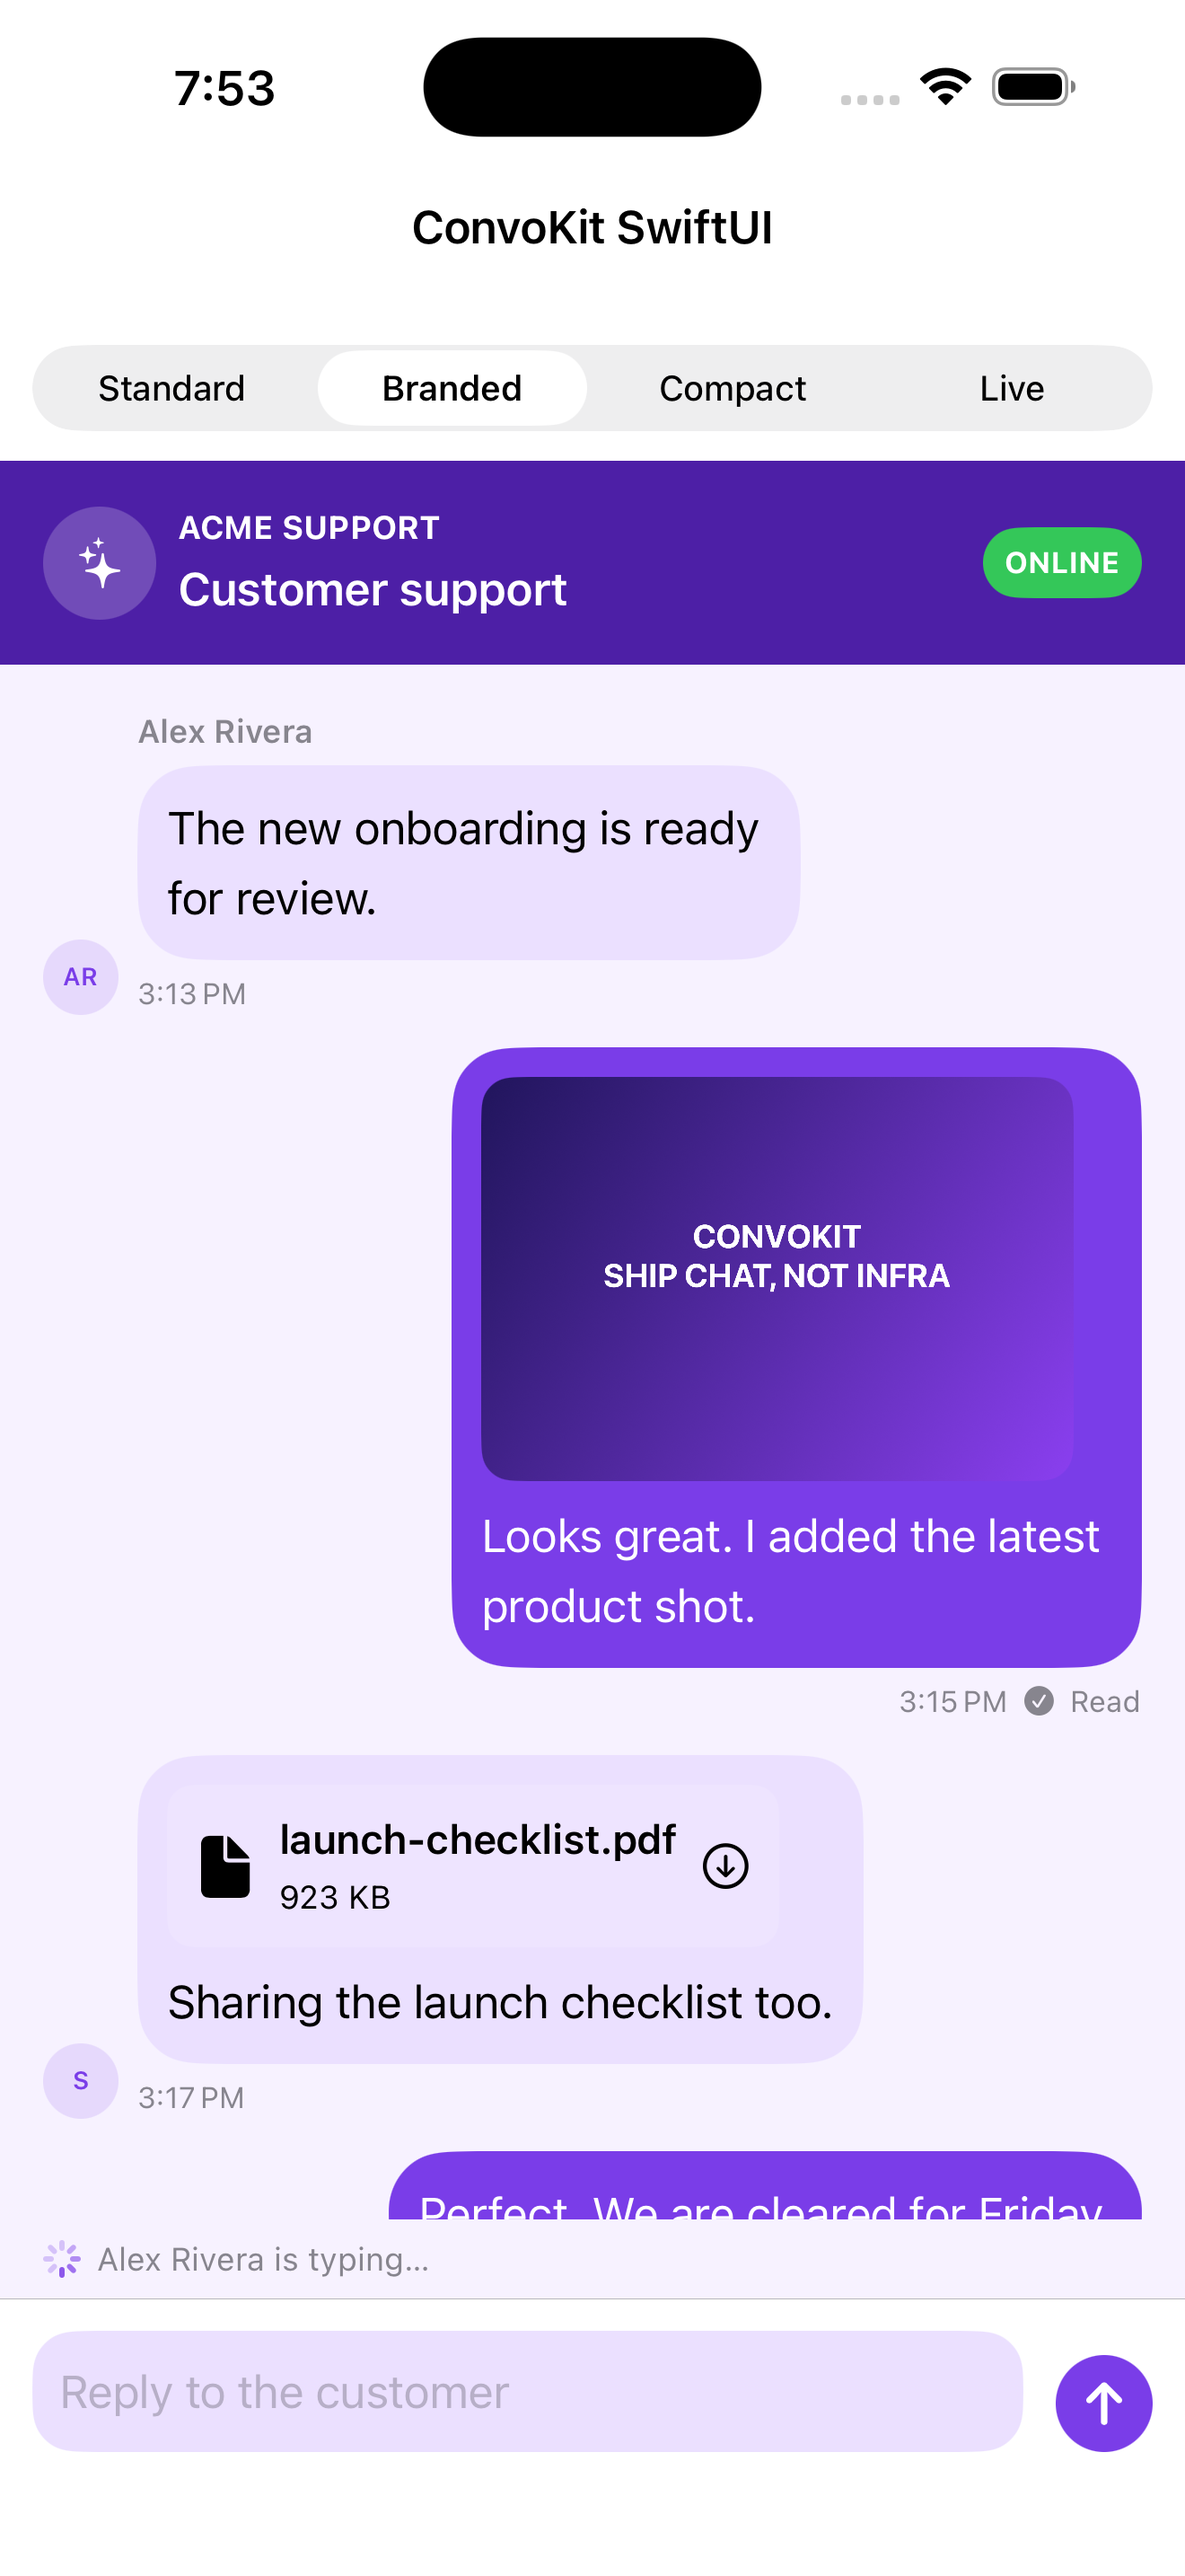
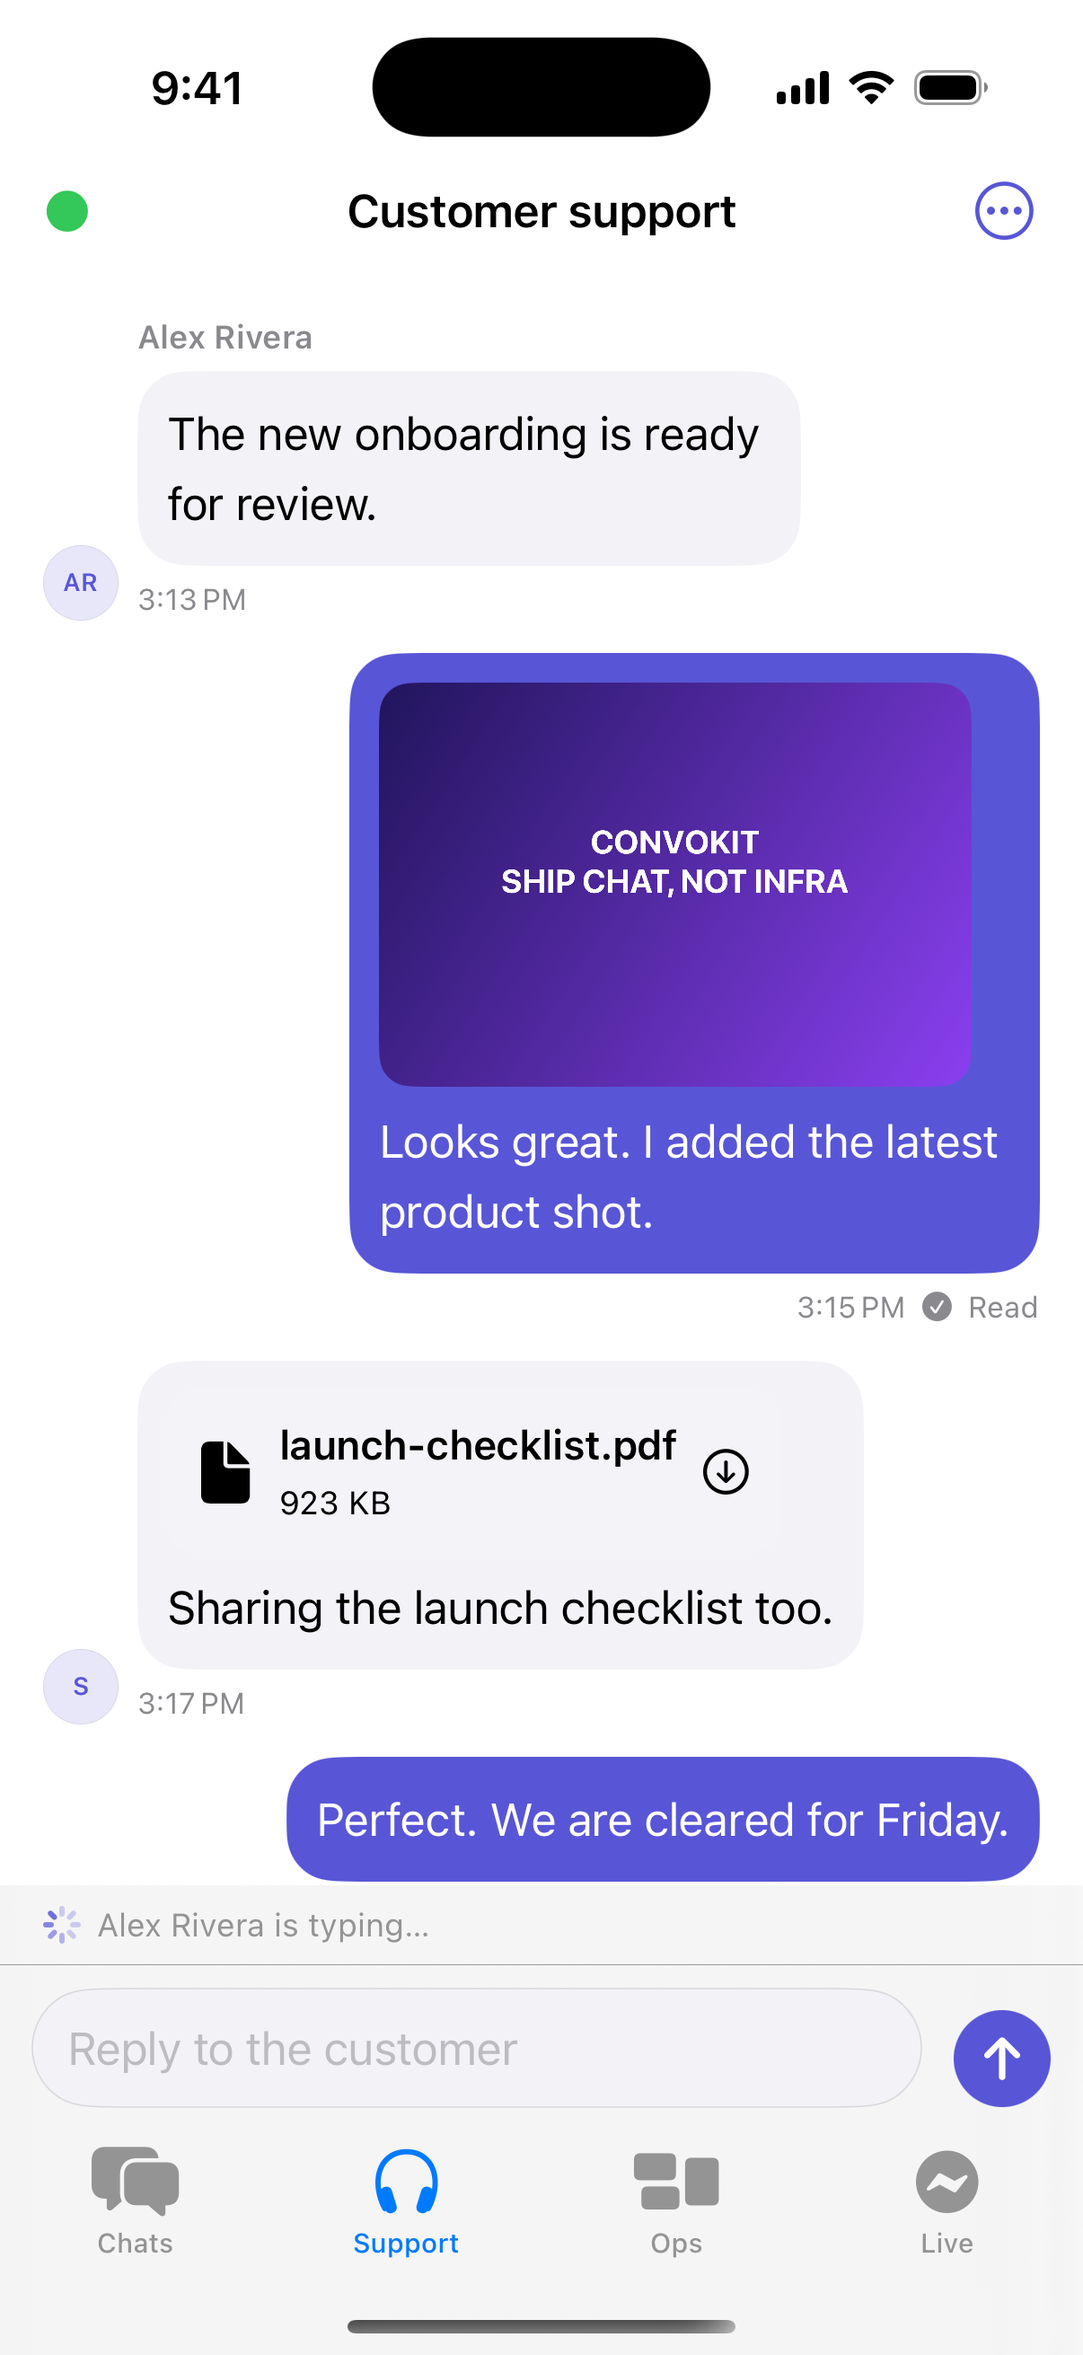
feat: showcase native SwiftUI components

diff --git a/ConvoKitExample/Sources/DemoRootView.swift b/ConvoKitExample/Sources/DemoRootView.swift
@@ -1,6 +1,7 @@
 import ConvoKit
 import ConvoKitUI
 import SwiftUI
+import UIKit
 
 struct DemoRootView: View {
     @State private var mode: DemoMode
@@ -12,103 +13,230 @@ struct DemoRootView: View {
     }
 
     var body: some View {
-        NavigationView {
-            VStack(spacing: 0) {
-                Picker("Example", selection: $mode) {
-                    ForEach(DemoMode.allCases) { Text($0.title).tag($0) }
-                }
-                .pickerStyle(.segmented).padding(12).background(.white)
-                Group {
-                    switch mode {
-                    case .standard: StandardComponentsView()
-                    case .branded: BrandedConversationView()
-                    case .compact: CompactConversationView()
-                    case .live: LiveChatView()
-                    }
-                }
+        TabView(selection: $mode) {
+            StandardComponentsView()
+                .tabItem { Label(DemoMode.standard.title, systemImage: DemoMode.standard.icon) }
+                .tag(DemoMode.standard)
+
+            BrandedConversationView()
+                .tabItem { Label(DemoMode.branded.title, systemImage: DemoMode.branded.icon) }
+                .tag(DemoMode.branded)
+
+            CompactConversationView()
+                .tabItem { Label(DemoMode.compact.title, systemImage: DemoMode.compact.icon) }
+                .tag(DemoMode.compact)
+
+            NavigationView {
+                LiveChatView()
+                    .navigationTitle("Join a room")
             }
-            .navigationTitle("ConvoKit SwiftUI")
-            .navigationBarTitleDisplayMode(.inline)
+            .navigationViewStyle(.stack)
+            .tabItem { Label(DemoMode.live.title, systemImage: DemoMode.live.icon) }
+            .tag(DemoMode.live)
         }
-        .navigationViewStyle(.stack)
+        .tint(.blue)
     }
 }
 
 enum DemoMode: String, CaseIterable, Identifiable {
     case standard, branded, compact, live
+
     var id: String { rawValue }
-    var title: String { rawValue.capitalized }
+    var title: String {
+        switch self {
+        case .standard: "Chats"
+        case .branded: "Support"
+        case .compact: "Ops"
+        case .live: "Live"
+        }
+    }
+    var icon: String {
+        switch self {
+        case .standard: "bubble.left.and.bubble.right"
+        case .branded: "headphones"
+        case .compact: "rectangle.3.group"
+        case .live: "bolt.horizontal.circle"
+        }
+    }
 }
 
 struct StandardComponentsView: View {
+    @State private var selectedConversation: Conversation?
+
     var body: some View {
-        VStack(spacing: 12) {
-            VStack(alignment: .leading, spacing: 6) {
-                Label("ConversationListView", systemImage: "list.bullet.rectangle").font(.caption.weight(.semibold)).foregroundStyle(.secondary)
-                ConversationListView(conversations: SampleData.conversations, selectedConversationId: SampleData.launch.id, onSelect: { _ in })
-                    .frame(height: 178).clipShape(RoundedRectangle(cornerRadius: 18)).overlay(RoundedRectangle(cornerRadius: 18).stroke(.black.opacity(0.07)))
+        NavigationView {
+            ConversationListView(
+                conversations: SampleData.conversations,
+                selectedConversationId: selectedConversation?.id,
+                onSelect: { selectedConversation = $0 }
+            )
+            .navigationTitle("Messages")
+            .toolbar {
+                ToolbarItem(placement: .navigationBarTrailing) {
+                    Button(action: {}) {
+                        Image(systemName: "square.and.pencil")
+                    }
+                    .accessibilityLabel("New conversation")
+                }
             }
-            VStack(alignment: .leading, spacing: 6) {
-                Label("ConversationView", systemImage: "bubble.left.and.bubble.right").font(.caption.weight(.semibold)).foregroundStyle(.secondary)
-                ConversationView(
-                    conversation: SampleData.launch, messages: SampleData.messages, currentUserId: "maya",
-                    readAtByUserId: ["alex": SampleData.now],
-                    configuration: .init(showsHeader: true, showsAvatars: true, showsTimestamps: true, showsReadReceipts: true, messageMaxWidth: 250),
-                    onSendMessage: { _ in true }, mediaDataProvider: { _ in SampleData.imageData() }
-                )
-                .clipShape(RoundedRectangle(cornerRadius: 18)).overlay(RoundedRectangle(cornerRadius: 18).stroke(.black.opacity(0.07)))
+            .background(navigationLink)
+        }
+        .navigationViewStyle(.stack)
+    }
+
+    private var navigationLink: some View {
+        NavigationLink(
+            isActive: Binding(
+                get: {
+                    if case .some = selectedConversation { return true }
+                    return false
+                },
+                set: { if !$0 { selectedConversation = nil } }
+            )
+        ) {
+            Group {
+                if let selectedConversation {
+                    NativeConversationScreen(conversation: selectedConversation)
+                }
             }
-        }.padding(12).background(Color(red: 0.95, green: 0.97, blue: 0.97))
+        } label: {
+            EmptyView()
+        }
+        .hidden()
+    }
+}
+
+private struct NativeConversationScreen: View {
+    let conversation: Conversation
+
+    var body: some View {
+        ConversationView(
+            conversation: conversation,
+            messages: SampleData.messages,
+            currentUserId: "maya",
+            readAtByUserId: ["alex": SampleData.now],
+            configuration: .init(showsHeader: false),
+            onSendMessage: { _ in true },
+            mediaDataProvider: { _ in SampleData.imageData() }
+        )
+        .navigationTitle(conversation.displayTitle)
+        .navigationBarTitleDisplayMode(.inline)
+        .toolbar {
+            ToolbarItem(placement: .navigationBarTrailing) {
+                Button(action: {}) {
+                    Image(systemName: "person.2")
+                }
+                .accessibilityLabel("Conversation details")
+            }
+        }
     }
 }
 
 struct BrandedConversationView: View {
     private let theme = ConvoKitTheme(
-        accent: Color(red: 0.48, green: 0.24, blue: 0.91),
-        background: Color(red: 0.97, green: 0.95, blue: 1),
-        surface: .white,
-        incomingBubble: Color(red: 0.92, green: 0.88, blue: 1),
-        outgoingBubble: Color(red: 0.48, green: 0.24, blue: 0.91),
-        cornerRadius: 22
+        accent: .indigo,
+        incomingBubble: Color(uiColor: .secondarySystemBackground),
+        outgoingBubble: .indigo,
+        cornerRadius: 18
     )
 
     var body: some View {
-        ConversationView(
-            conversation: SampleData.support,
-            messages: SampleData.messages,
-            currentUserId: "maya",
-            typingUserIds: ["alex"],
-            readAtByUserId: ["alex": SampleData.now],
-            configuration: .init(composerPlaceholder: "Reply to the customer"),
-            onSendMessage: { _ in true },
-            mediaDataProvider: { _ in SampleData.imageData() },
-            header: { room in AnyView(
-                HStack {
-                    ZStack { Circle().fill(.white.opacity(0.2)); Image(systemName: "sparkles").foregroundStyle(.white) }.frame(width: 42, height: 42)
-                    VStack(alignment: .leading) { Text("ACME SUPPORT").font(.caption.weight(.bold)); Text(room.displayTitle).font(.headline) }
-                    Spacer(); Text("ONLINE").font(.caption2.weight(.bold)).padding(.horizontal, 8).padding(.vertical, 5).background(.green).clipShape(Capsule())
-                }.foregroundStyle(.white).padding().background(Color(red: 0.30, green: 0.12, blue: 0.65))
-            ) }
-        ).convoKitTheme(theme)
+        NavigationView {
+            ConversationView(
+                conversation: SampleData.support,
+                messages: SampleData.messages,
+                currentUserId: "maya",
+                typingUserIds: ["alex"],
+                readAtByUserId: ["alex": SampleData.now],
+                configuration: .init(showsHeader: false, composerPlaceholder: "Reply to the customer"),
+                onSendMessage: { _ in true },
+                mediaDataProvider: { _ in SampleData.imageData() }
+            )
+            .convoKitTheme(theme)
+            .navigationTitle("Customer support")
+            .navigationBarTitleDisplayMode(.inline)
+            .toolbar {
+                ToolbarItem(placement: .navigationBarLeading) {
+                    Label("Online", systemImage: "circle.fill")
+                        .font(.caption)
+                        .foregroundStyle(.green)
+                }
+                ToolbarItem(placement: .navigationBarTrailing) {
+                    Menu {
+                        Button("View customer", systemImage: "person") {}
+                        Button("Conversation details", systemImage: "info.circle") {}
+                    } label: {
+                        Image(systemName: "ellipsis.circle")
+                    }
+                }
+            }
+        }
+        .navigationViewStyle(.stack)
+        .tint(.indigo)
     }
 }
 
 struct CompactConversationView: View {
     var body: some View {
-        ConversationView(
-            conversation: SampleData.launch, messages: SampleData.messages, currentUserId: "maya",
-            readAtByUserId: ["alex": SampleData.now],
-            configuration: .init(showsHeader: true, showsAvatars: false, showsTimestamps: false, showsReadReceipts: true, messageMaxWidth: 290, composerPlaceholder: "Message ops"),
-            onSendMessage: { _ in true }, mediaDataProvider: { _ in SampleData.imageData() },
-            messageView: { context in AnyView(
-                HStack(spacing: 8) {
-                    Text(context.sender?.name.components(separatedBy: " ").first ?? context.message.senderId).font(.caption.weight(.bold)).frame(width: 42, alignment: .leading)
-                    Text(context.message.text ?? context.message.media.first?.name ?? "Attachment").font(.subheadline).lineLimit(2)
-                    Spacer(); if !context.readerIds.isEmpty { Image(systemName: "checkmark.done").font(.caption).foregroundStyle(.green) }
-                }.padding(10).background(context.isCurrentUser ? Color.green.opacity(0.12) : Color.white).clipShape(RoundedRectangle(cornerRadius: 9))
-            ) }
-        )
-        .convoKitDensity(.compact)
-        .convoKitTheme(ConvoKitTheme(accent: .green, background: Color(red: 0.94, green: 0.96, blue: 0.94), outgoingBubble: .green, cornerRadius: 10))
+        NavigationView {
+            ConversationView(
+                conversation: SampleData.launch,
+                messages: SampleData.messages,
+                currentUserId: "maya",
+                readAtByUserId: ["alex": SampleData.now],
+                configuration: .init(
+                    showsHeader: false,
+                    showsAvatars: false,
+                    showsTimestamps: false,
+                    showsReadReceipts: true,
+                    messageMaxWidth: 320,
+                    composerPlaceholder: "Message operations"
+                ),
+                onSendMessage: { _ in true },
+                mediaDataProvider: { _ in SampleData.imageData() },
+                messageView: { context in AnyView(OperationsMessageRow(context: context)) }
+            )
+            .convoKitDensity(.compact)
+            .navigationTitle("Launch operations")
+            .navigationBarTitleDisplayMode(.inline)
+            .toolbar {
+                ToolbarItem(placement: .navigationBarTrailing) {
+                    Button(action: {}) {
+                        Label("Details", systemImage: "info.circle")
+                    }
+                    .accessibilityLabel("Room details")
+                }
+            }
+        }
+        .navigationViewStyle(.stack)
+    }
+}
+
+private struct OperationsMessageRow: View {
+    let context: MessageContext
+
+    var body: some View {
+        HStack(alignment: .firstTextBaseline, spacing: 10) {
+            Text(context.isCurrentUser ? "You" : firstName)
+                .font(.caption.weight(.semibold))
+                .foregroundStyle(.secondary)
+                .frame(width: 44, alignment: .leading)
+            Text(context.message.text ?? context.message.media.first?.name ?? "Attachment")
+                .font(.subheadline)
+                .frame(maxWidth: .infinity, alignment: .leading)
+            if !context.readerIds.isEmpty {
+                Image(systemName: "checkmark.circle.fill")
+                    .font(.caption)
+                    .foregroundStyle(.secondary)
+                    .accessibilityLabel("Read")
+            }
+        }
+        .padding(.horizontal, 12)
+        .padding(.vertical, 9)
+        .background(.thinMaterial, in: RoundedRectangle(cornerRadius: 10, style: .continuous))
+    }
+
+    private var firstName: String {
+        context.sender?.name.components(separatedBy: " ").first ?? context.message.senderId
     }
 }

diff --git a/ConvoKitExample/Sources/SampleData.swift b/ConvoKitExample/Sources/SampleData.swift
@@ -17,8 +17,23 @@ enum SampleData {
         description: "Priority inbox", participants: [maya, alex],
         createdAt: now.addingTimeInterval(-172_800), updatedAt: now.addingTimeInterval(-120)
     )
+    static let design = Conversation(
+        id: "design-room", title: "Design review", appId: "demo", displayTitle: "Design review",
+        description: "New onboarding flow", participants: [maya, sam],
+        createdAt: now.addingTimeInterval(-259_200), updatedAt: now.addingTimeInterval(-1_800)
+    )
+    static let incident = Conversation(
+        id: "incident-room", title: "Incident response", appId: "demo", displayTitle: "Incident response",
+        description: "API status and customer updates", participants: [maya, alex, sam],
+        createdAt: now.addingTimeInterval(-345_600), updatedAt: now.addingTimeInterval(-7_200)
+    )
+    static let research = Conversation(
+        id: "research-room", title: "User research", appId: "demo", displayTitle: "User research",
+        description: "September interview notes", participants: [maya, alex],
+        createdAt: now.addingTimeInterval(-432_000), updatedAt: now.addingTimeInterval(-86_400)
+    )
 
-    static let conversations = [launch, support]
+    static let conversations = [launch, support, design, incident, research]
     static let messages = [
         Message(id: "m1", conversationId: launch.id, senderId: alex.appUserId, text: "The new onboarding is ready for review.", createdAt: now.addingTimeInterval(-420)),
         Message(id: "m2", conversationId: launch.id, senderId: maya.appUserId, text: "Looks great. I added the latest product shot.", media: [.image(name: "onboarding.png", url: "https://cdn.example.com/onboarding.png", size: 184_320)], createdAt: now.addingTimeInterval(-300)),

diff --git a/README.md b/README.md
@@ -2,11 +2,11 @@
 
 A public iOS example app for the compiled `ConvoKit` and `ConvoKitUI` Swift package products. The SDK implementation remains private.
 
-The app includes four modes:
+The app uses a native iOS tab bar and navigation stacks for four examples:
 
-- **Standard** shows `ConversationListView` and `ConversationView` as independent controlled components.
-- **Branded** demonstrates a custom theme and header slot.
-- **Compact** demonstrates dense, host-rendered message rows.
+- **Chats** shows `ConversationListView` as a standard Messages-style inbox and pushes a native conversation screen.
+- **Support** demonstrates brand tinting without replacing the navigation bar or system controls.
+- **Ops** demonstrates dense, host-rendered message rows inside a normal iOS conversation screen.
 - **Live** joins an authorized room through the demo backend and opens the SDK-backed realtime component.
 
 ![Standard components](doc/screenshots/standard-components.png)
